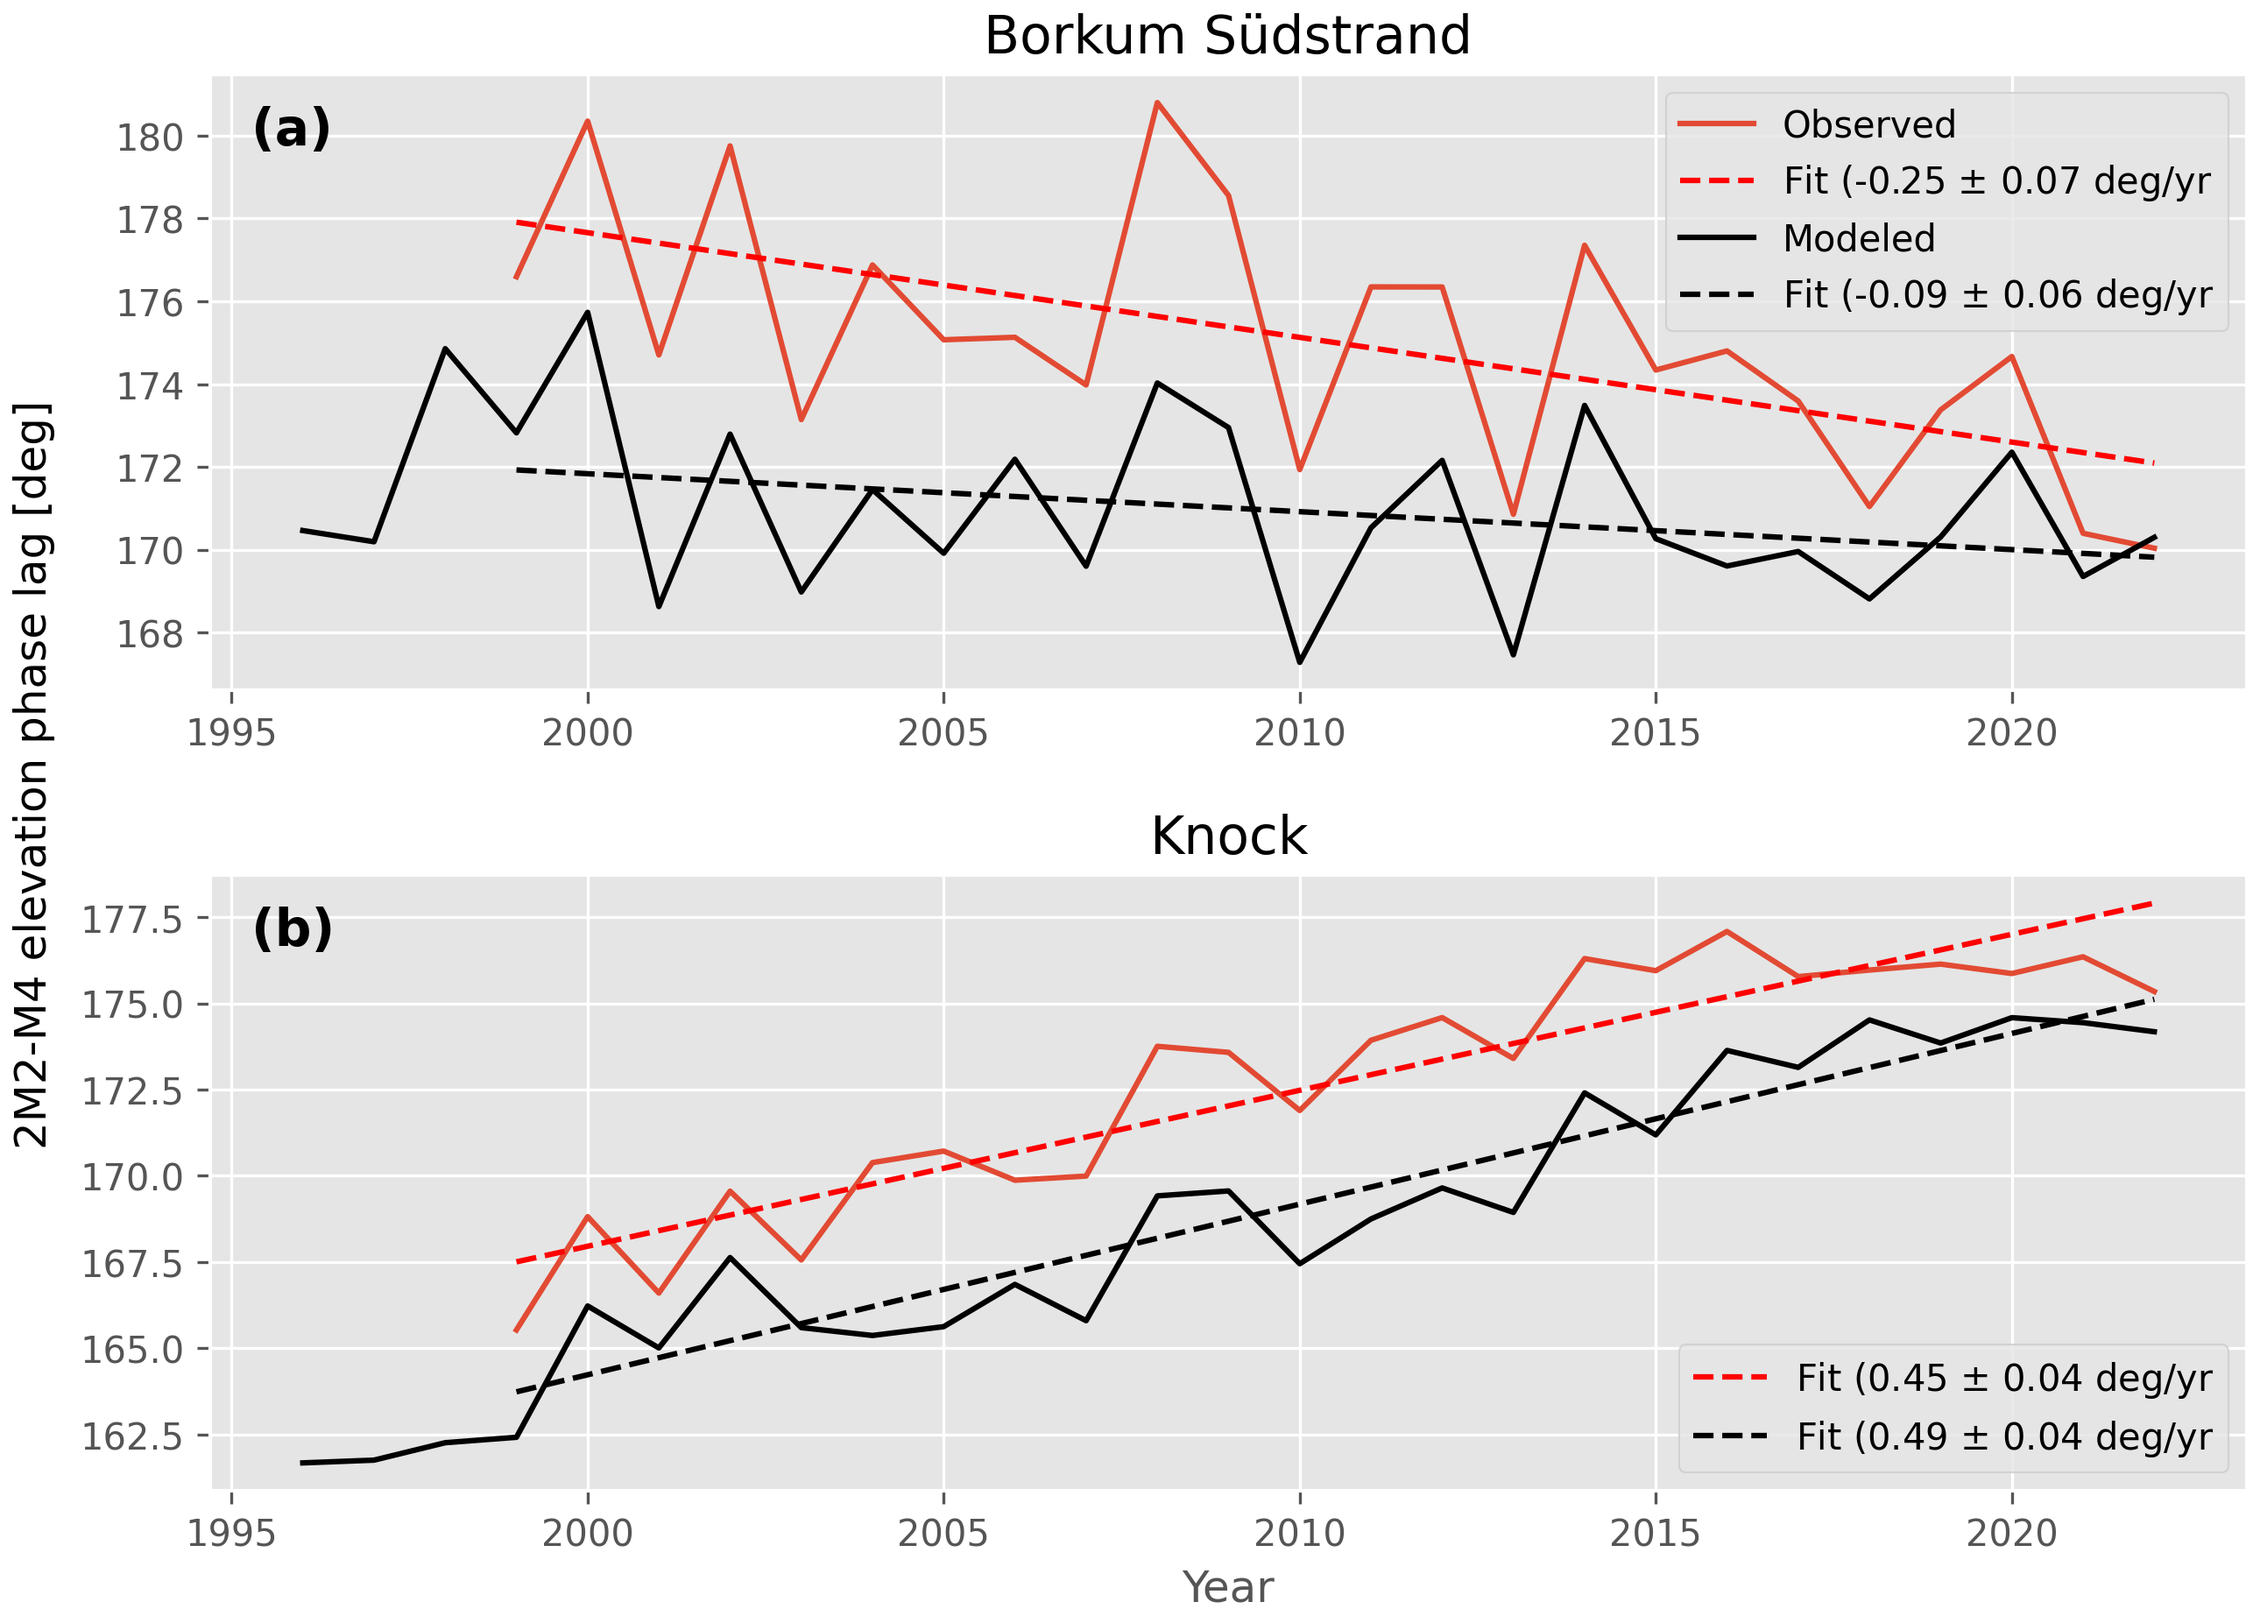
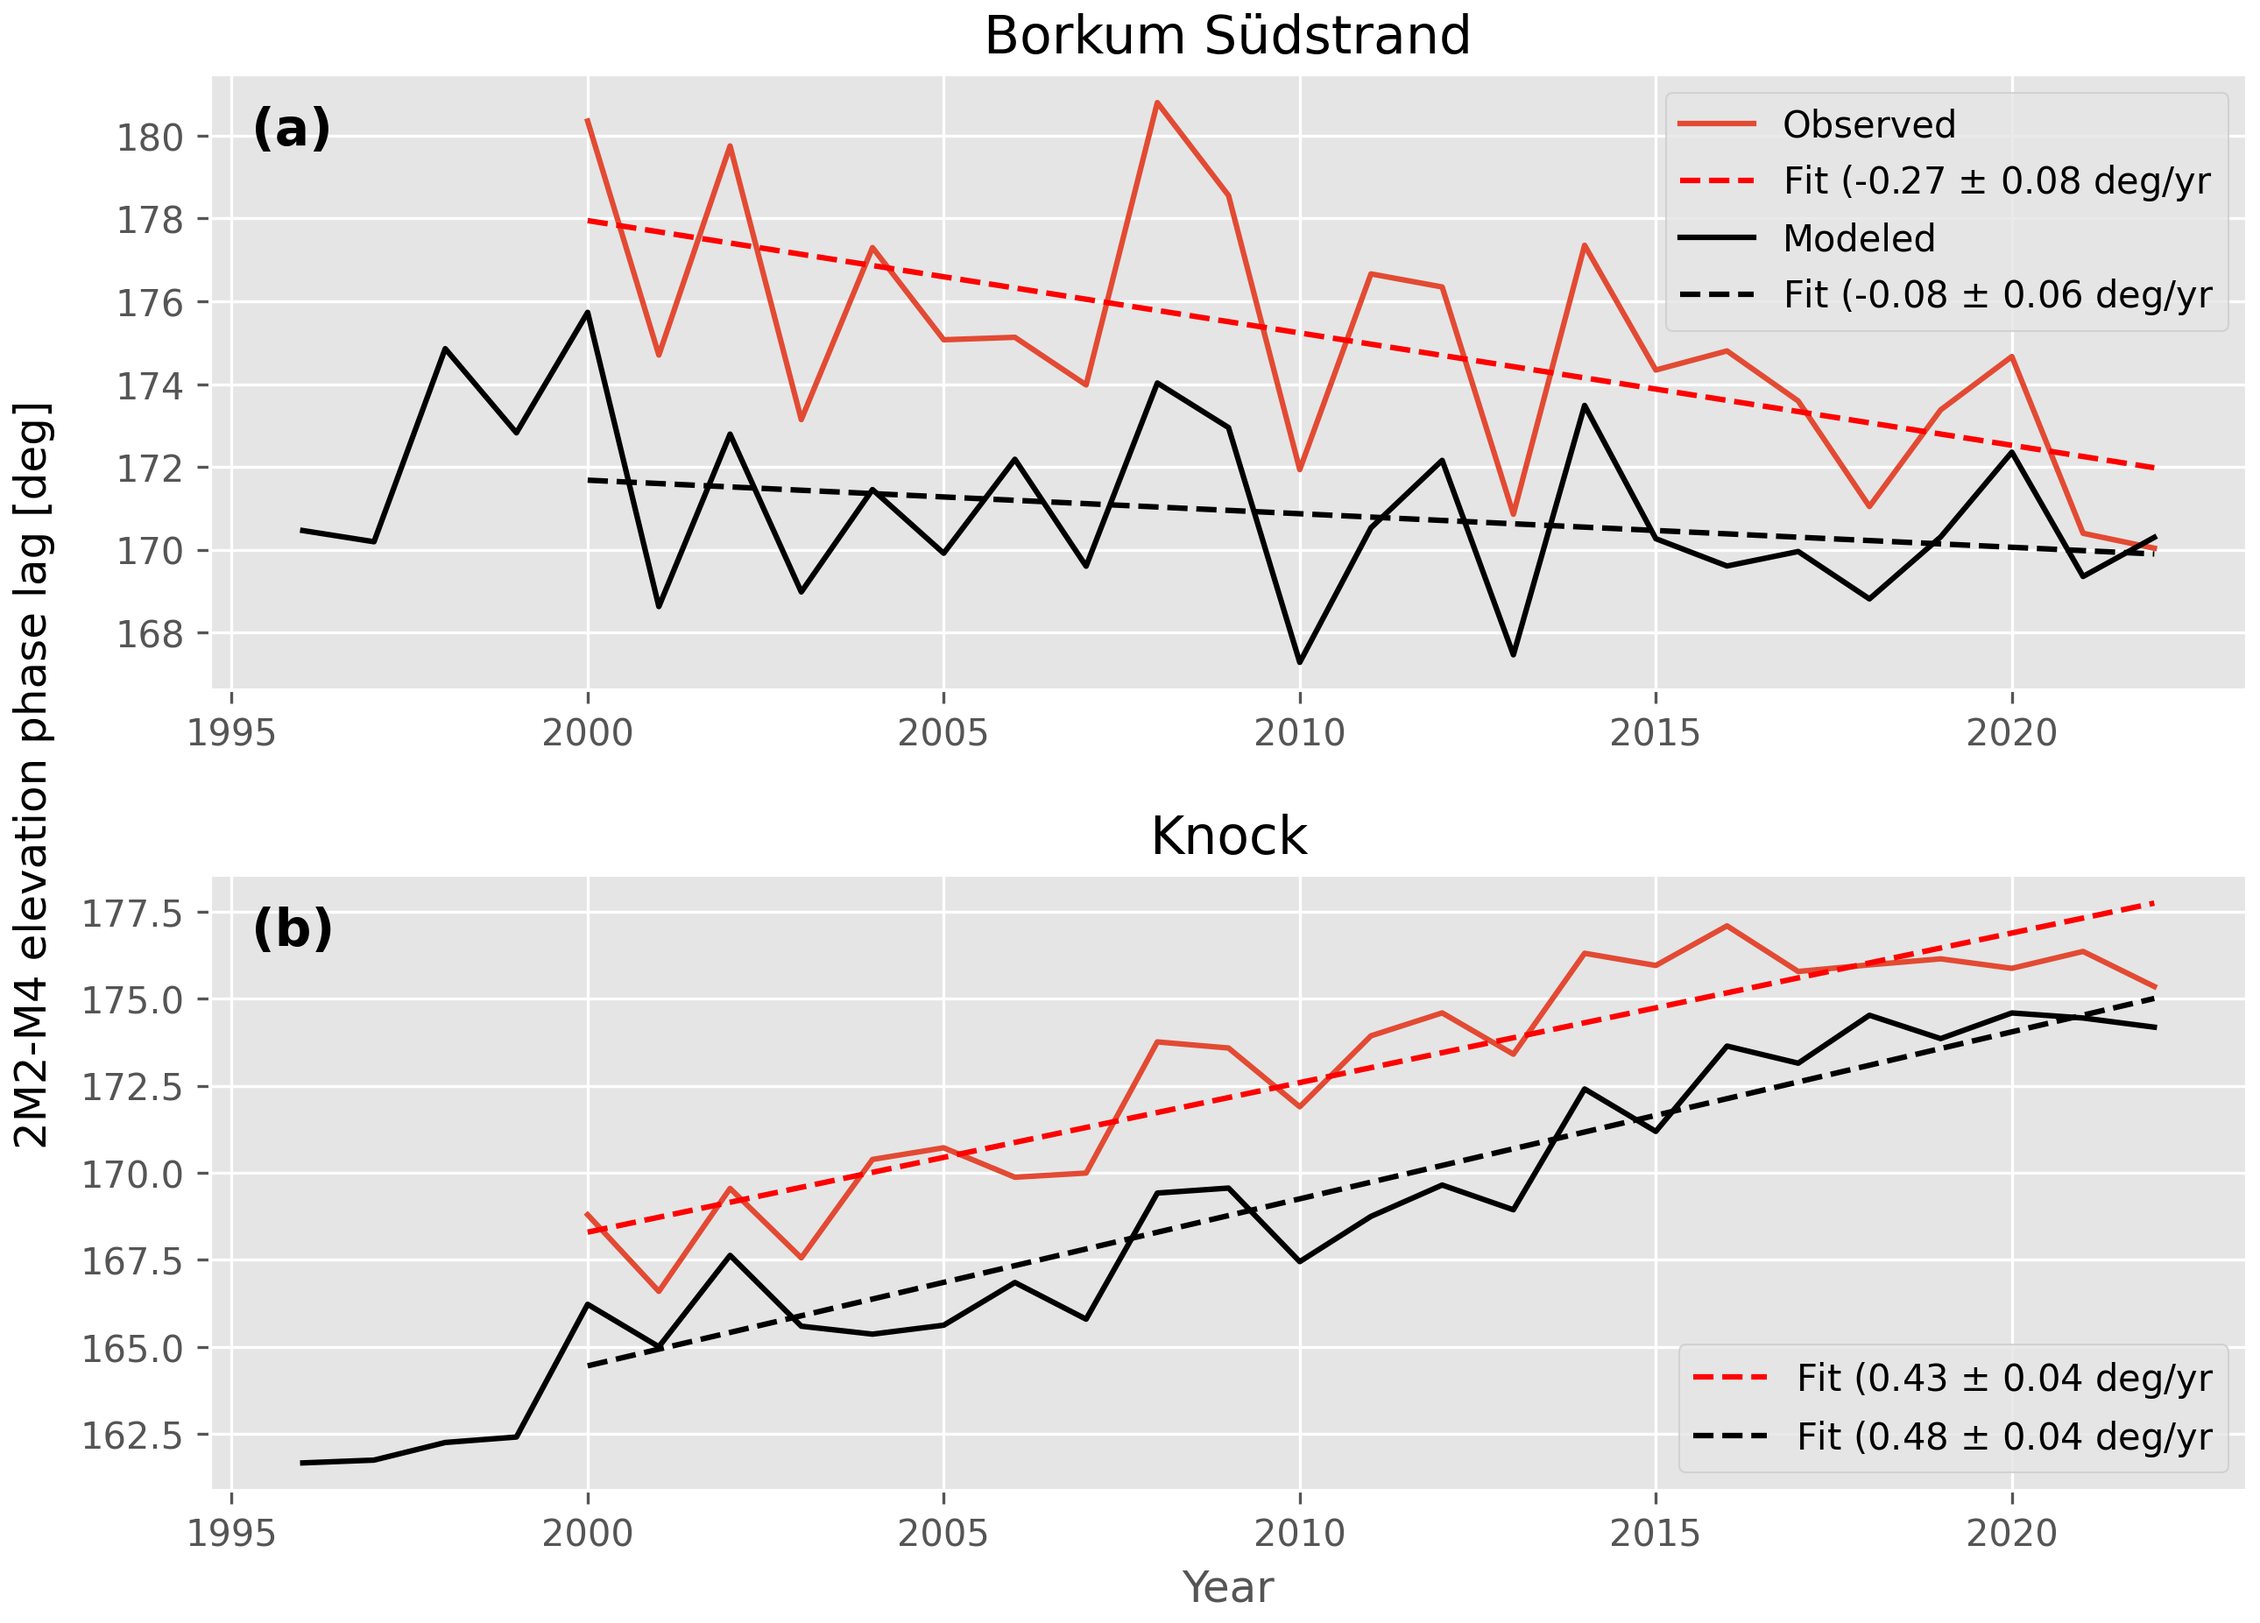
add HA scripts

diff --git a/scripts/visualization/Figure4.py b/scripts/visualization/Figure4.py
@@ -21,6 +21,7 @@ import sys
 sys.path.append("../analysis") #to be able to load dictionary from paper_helper_functions.py
 from paper_helper_functions import coordinates_ems
 
+phase_lag_unit = 'degrees'
 
 def compute_amp_phase_lag(constit, phase_lag_constits, years):
     amp_idx = np.where(np.array(const_list) == constit)[0][0]
@@ -86,13 +87,10 @@ trends = np.zeros(len(stations))
 trend_sigmas = np.zeros(len(stations))
 p_values = np.zeros(len(stations))
 for i in range(len(stations)):
-    trends[i], trend_sigmas[i], p_values[i] = compute_trend(np.cos(np.radians(phase_lag_array[:,i])))
-    if stations[i] == 'emdenneueseeschleuse':
-        plt.figure()
-        plt.plot(years, phase_lag_array[:,i])
-    if stations[i] == 'emshorn':
-        plt.figure()
-        plt.plot(years, phase_lag_array[:,i])
+    if phase_lag_unit == 'degrees':
+        trends[i], trend_sigmas[i], p_values[i] = compute_trend(phase_lag_array[:,i])
+    elif phase_lag_unit == 'radians':
+        trends[i], trend_sigmas[i], p_values[i] = compute_trend(np.cos(np.radians(phase_lag_array[:,i])))
         
 sig = p_values < 0.05
 
@@ -106,14 +104,17 @@ lats = np.load('../../data/DCSM/lats.npy')
 subtidal_mask = np.load('../../data/DCSM/mask_subtidal.npy')
 bathy_years = np.arange(1996, 2023)
 
-
-ts_2M2_M4_elev_phase_wrt_2009_cos = np.cos(np.radians(ts_2M2_M4_elev_phase_anomalies + M2_M4_elev_phase_2009_deg))
-coeffs, cov = np.polyfit(bathy_years, ts_2M2_M4_elev_phase_wrt_2009_cos, deg=1, cov=True)
+if phase_lag_unit == 'radians':
+    ts_2M2_M4_elev_phase_wrt_2009_cos = np.cos(np.radians(ts_2M2_M4_elev_phase_anomalies + M2_M4_elev_phase_2009_deg))
+    coeffs, cov = np.polyfit(bathy_years, ts_2M2_M4_elev_phase_wrt_2009_cos, deg=1, cov=True)
+if phase_lag_unit == 'degrees':
+    ts_2M2_M4_elev_phase_wrt_2009_deg = ts_2M2_M4_elev_phase_anomalies + M2_M4_elev_phase_2009_deg
+    coeffs, cov = np.polyfit(bathy_years, ts_2M2_M4_elev_phase_wrt_2009_deg, deg=1, cov=True)
 M2_M4_elev_phase_trend = coeffs[0,:]
 M2_M4_elev_phase_trend_unc = np.sqrt(cov[0, 0, :])
 
 # Visualization
-bound = np.nanpercentile(np.abs(M2_M4_elev_phase_trend[subtidal_mask]), 80)
+bound = np.nanpercentile(np.abs(M2_M4_elev_phase_trend[subtidal_mask]), 95)
 
 fig = plt.figure(figsize=(10, 10))
 ax = fig.add_subplot(2, 1, 1, projection=ccrs.Mercator())
@@ -129,7 +130,10 @@ bbox = ax.get_position()
 cax = fig.add_axes([bbox.x1 + 0.01, bbox.y0, 0.02, bbox.height])
 clb = plt.colorbar(im, cax=cax)
 clb.ax.tick_params(labelsize=10)
-clb.set_label('$\cos(2\phi^\eta_{M2} - \phi^\eta_{M4})$ trend [1/yr]', fontsize=10)
+if phase_lag_unit == 'radians':
+    clb.set_label('$\cos(2\phi^\eta_{M2} - \phi^\eta_{M4})$ trend [1/yr]', fontsize=10)
+elif phase_lag_unit == 'degrees':
+    clb.set_label('$2\phi^\eta_{M2} - \phi^\eta_{M4}$ trend [deg/yr]', fontsize=10)
 ax.text(0.02, 0.02, '(a)', transform=ax.transAxes,
         fontsize=14, fontweight='bold', va='bottom', ha='left')
 
@@ -144,7 +148,10 @@ bbox = ax.get_position()
 cax = fig.add_axes([bbox.x1 + 0.01, bbox.y0, 0.02, bbox.height])
 clb = plt.colorbar(im, cax=cax)
 clb.ax.tick_params(labelsize=10)
-clb.set_label('$\cos(2\phi^\eta_{M2} - \phi^\eta_{M4})$ trend [1/yr]', fontsize=10)
+if phase_lag_unit == 'radians':
+    clb.set_label('$\cos(2\phi^\eta_{M2} - \phi^\eta_{M4})$ trend [1/yr]', fontsize=10)
+elif phase_lag_unit == 'degrees':
+    clb.set_label('$2\phi^\eta_{M2} - \phi^\eta_{M4}$ trend [deg/yr]', fontsize=10)
 ax.text(0.02, 0.02, '(b)', transform=ax.transAxes,
         fontsize=14, fontweight='bold', va='bottom', ha='left')
 

diff --git a/scripts/preprocessing/HA_RWS.py b/scripts/preprocessing/HA_RWS.py
@@ -1,0 +1,50 @@
+#!/usr/bin/env python3
+# -*- coding: utf-8 -*-
+"""
+Created on Mon Sep  7 12:48:11 2026
+
+@author: kbhaakman
+"""
+import os
+import numpy as np
+import pandas as pd
+import hatyan
+
+station = 'delfzijl'
+
+def load_data(fn):
+    data = pd.read_csv(fn, usecols=['MEETAPPARAAT_OMSCHRIJVING', 'WAARNEMINGDATUM', 'WAARNEMINGTIJD (MET/CET)', 'NUMERIEKEWAARDE', 'WAARDEBEPALINGSMETHODE_OMSCHRIJVING', 'GROEPERING_OMSCHRIJVING', 'OPDRACHTGEVENDE_INSTANTIE'],  delimiter=';', encoding="ISO-8859-1", parse_dates=[['WAARNEMINGDATUM', 'WAARNEMINGTIJD (MET/CET)']])
+    data = data.set_index('WAARNEMINGDATUM_WAARNEMINGTIJD (MET/CET)')
+    data = data[data['WAARDEBEPALINGSMETHODE_OMSCHRIJVING'] != 'HW en LW uit 1 min. waterhoogten gefilterd uit 10 min. gem.']
+    data = data[data['WAARDEBEPALINGSMETHODE_OMSCHRIJVING'] == 'Rekenkundig gemiddelde waarde over vorige 5 en volgende 5 minuten']
+    data = data[data['NUMERIEKEWAARDE'] != 999999999]
+    data = data[data['MEETAPPARAAT_OMSCHRIJVING'] == 'Vlotter']
+    data.index = pd.to_datetime(data.index, format='%d-%m-%Y %H:%M:%S')
+    data = data[['NUMERIEKEWAARDE']] 
+    data = data.rename(columns={'NUMERIEKEWAARDE': 'values'})
+    data.values = data.values / 100 #cm to m
+    return data  
+
+def main():
+    const_list = hatyan.get_const_list_hatyan('year')
+    const_list.remove('MNO5') #aliasing 
+    fn = '../../data/RWS/delfzijl_1987_2025_10min.csv'
+    data = load_data(fn)
+    
+    hatyan_result = hatyan.analysis(data, const_list, nodalfactors=False, 
+                                    fu_alltimes=False, analysis_perperiod='Y',
+                                    return_allperiods=True)
+    amps = hatyan_result[1]['A']
+    phases = hatyan_result[1]['phi_deg']
+    for yr in np.arange(1987, 2023):
+        amps_yr = amps[str(yr)]
+        phases_yr = np.radians(phases[str(yr)])
+        savefolder = '../../processed_time_series/tide_gauges/{}/'.format(station)
+        os.makedirs(savefolder, exist_ok=True)
+        np.save(savefolder+'amps_{}_{}.npy'.format(station, yr), amps_yr[1:])
+        np.save(savefolder+'phases_{}_{}.npy'.format(station, yr), phases_yr[1:])
+    return
+
+
+if __name__ == '__main__':
+    main()

diff --git a/scripts/preprocessing/HA_pegelonline.py b/scripts/preprocessing/HA_pegelonline.py
@@ -1,0 +1,47 @@
+#!/usr/bin/env python3
+# -*- coding: utf-8 -*-
+"""
+Created on Mon Sep  7 11:09:18 2026
+
+@author: kbhaakman
+"""
+import os
+import numpy as np
+import pandas as pd
+import hatyan
+
+stations = ['borkumfischerbalje', 'borkumsudstrand', 'dukegat', 'knock', 'emshorn', 'pogum', 'emdenneueseeschleuse']
+
+def load_data(fn):
+    data = pd.read_csv(fn, delimiter=',', index_col=0)
+    data.index = pd.to_datetime(data.index, format ='%Y-%m-%d %H:%M:%S')
+    return data
+
+def main():
+    const_list = hatyan.get_const_list_hatyan('year')
+    const_list.remove('MNO5') #aliasing 
+    for i, station in enumerate(stations):
+        print('#### {} ####'.format(station))
+        fn = '../../data/pegelonline_preprocessed/{}.csv'.format(station)
+        data = load_data(fn)
+
+        # hatyan_df = hatyan_df[~hatyan_df.index.duplicated(keep="first")]
+        hatyan_result = hatyan.analysis(data, const_list, nodalfactors=False, 
+                                        fu_alltimes=False, analysis_perperiod='Y',
+                                        return_allperiods=True)
+
+        amps = hatyan_result[1]['A']
+        phases = hatyan_result[1]['phi_deg']
+        for yr in np.arange(2000, 2023):
+            amps_yr = amps[str(yr)]
+            phases_yr = np.radians(phases[str(yr)])
+            savefolder = '../../processed_time_series/tide_gauges/{}/'.format(station)
+            os.makedirs(savefolder, exist_ok=True)
+            np.save(savefolder+'amps_{}_{}.npy'.format(station, yr), amps_yr[1:])
+            np.save(savefolder+'phases_{}_{}.npy'.format(station, yr), phases_yr[1:])
+
+    return
+
+
+if __name__ == '__main__':
+    main()

diff --git a/scripts/visualization/Figure3.py b/scripts/visualization/Figure3.py
@@ -71,8 +71,8 @@ DCSM_phase_lags_station2_dynamic_meteo = np.load('../../processed_time_series/DC
 A, xhat_tg1, trend_sigma_tg1, _ = compute_trend(years, observed_phase_lags_station1)
 A, xhat_tg2, trend_sigma_tg2, _ = compute_trend(years, observed_phase_lags_station2)
 
-A, xhat_DCSM1, trend_sigma_DCSM1, _ = compute_trend(years[3:], DCSM_phase_lags_station1_dynamic_meteo[3:])
-A, xhat_DCSM2, trend_sigma_DCSM2, _ = compute_trend(years[3:], DCSM_phase_lags_station2_dynamic_meteo[3:])
+A, xhat_DCSM1, trend_sigma_DCSM1, _ = compute_trend(years[4:], DCSM_phase_lags_station1_dynamic_meteo[4:])
+A, xhat_DCSM2, trend_sigma_DCSM2, _ = compute_trend(years[4:], DCSM_phase_lags_station2_dynamic_meteo[4:])
 
 # Dynamic meteo plot
 fig, axes = plt.subplots(nrows=2, figsize=(10, 7))

diff --git a/scripts/preprocessing/preprocess_pegelonline_data.py b/scripts/preprocessing/preprocess_pegelonline_data.py
@@ -17,8 +17,8 @@ def load_data(fn):
     data = data.set_index('timestamp')
     data.index = pd.to_datetime(data.index, format ='%Y-%m-%d %H:%M')
     data.index.name = 'datetime'
-    data = data.rename(columns={'value':'water_level'})
-    data['water_level'] = data['water_level'] / 100 #convert cm to m
+    data = data.rename(columns={'value':'values'})
+    data['values'] = data['values'] / 100 #convert cm to m
     
     ## Pegelonline data still has daylight saving time jumps, next four lines remove it.
     data.index = data.index.tz_localize(
